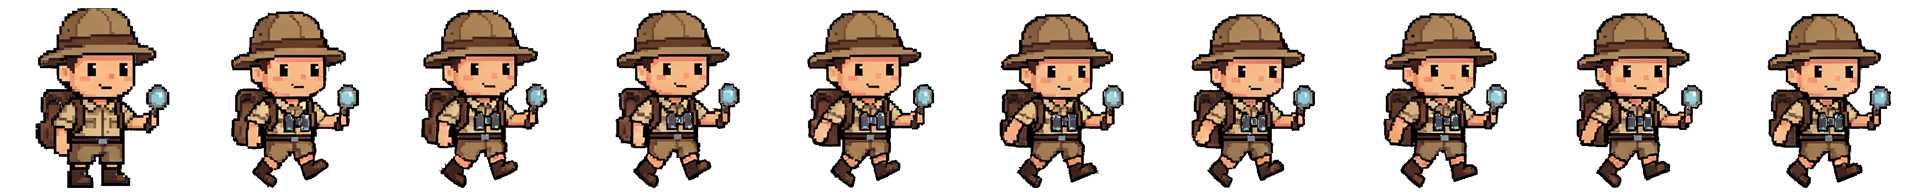
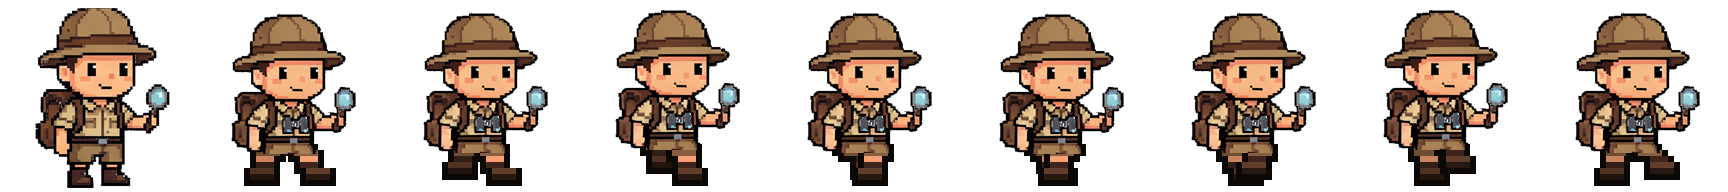
Gezgin: yürüme animasyonu prosedürel bacaklarla yeniden yapıldı
- Kaynak karelerde bacaklar neredeyse aynı pozdaydı. tools/build-explorer-walk.py
  tek gövde karesinin altına her karede yeni bacak çizer: basan ayak geriye kayar,
  salınan ayak dizden bükülüp kalkarak öne gelir, adım anında gövde hafifçe çöker.
- Şerit 1 duruş + 8 yürüyüş karesi (8 fps ile 1 sn'lik döngü).
- Girdiler Assets/explorer/src/explorer_idle.png ve explorer_body.png olarak saklandı.

Claude-Session: https://claude.ai/code/session_01DosPANLGgFpHDMt3x6X6kz

diff --git a/tools/build-explorer-walk.py b/tools/build-explorer-walk.py
@@ -1,0 +1,146 @@
+# Gezginin yürüme şeridini üretir: bacaklar prosedürel bir yürüyüş döngüsüyle piksel piksel çizilir.
+#
+# Kaynak görsellerdeki yürüyüş karelerinde bacaklar neredeyse aynı pozdaydı; adım belli olmuyordu.
+# Bu araç tek bir gövde karesini (kalçadan yukarısı) alır, altına her karede yeni bacaklar çizer:
+# basan ayak geriye kayar, salınan ayak dizden bükülüp yerden kalkarak öne gelir, gövde adım
+# anında hafifçe çöker. Bacak çizimi kaynaktaki piksel boyuna (≈6 px) oturan bir ızgarada yapılır.
+#
+# Girdi:  Assets/explorer/src/explorer_idle.png  (192x192 duruş karesi)
+#         Assets/explorer/src/explorer_body.png  (192x192 yürüyüş karesi; kalçadan yukarısı kullanılır)
+# Çıktı:  Assets/explorer/explorer_walk.png      (kare 0 duruş, 1..N yürüyüş)
+# Çalıştır: python tools/build-explorer-walk.py [önizleme.png]   (Pillow gerekir)
+import math
+import sys
+from pathlib import Path
+
+from PIL import Image
+
+ROOT = Path(__file__).resolve().parent.parent / "Assets" / "explorer"
+CELL = 192          # şerit kare boyu
+PX = 6              # bir "sanat pikseli" (kaynaktaki piksel bloğu ≈ 6.4 px)
+FRAMES = 8          # yürüyüş karesi sayısı (8 fps ile bir döngü 1 sn)
+CUT_Y = 150         # gövde karesinde bacakların başladığı satır (şort paçasının üstü)
+GROUND = 186        # ayak tabanının alt satırı
+HIPS = (82, 108)    # sol (arka) ve sağ (ön) bacağın kalça merkezi, x
+STRIDE = 3.2        # ayağın kalçaya göre en fazla ileri/geri kayması (sanat pikseli)
+LIFT = 1.8          # salınan ayağın en fazla yerden kalkışı (sanat pikseli)
+BOB = 4             # adım anında gövdenin çökmesi (px)
+
+OUTLINE = (12, 8, 6)
+SHORTS = (167, 129, 84)
+SHORTS_DARK = (135, 94, 64)
+SKIN = (248, 160, 116)
+SKIN_DARK = (214, 128, 92)
+BOOT = (97, 61, 44)
+BOOT_DARK = (62, 36, 28)
+SOLE = (40, 24, 18)
+
+LEG_ROWS = (GROUND - CUT_Y) // PX   # ayakta dururken bacak kaç sanat pikseli boyunda (6)
+
+
+def shade(c, k):
+    return tuple(max(0, min(255, round(v * k))) for v in c)
+
+
+def leg_cells(foot_x, lift, bend):
+    """Bir bacağın sanat pikseli ızgarasındaki hücreleri: {(x, y): renk}. Kalça (0, 0)'da, y aşağı doğru.
+
+    foot_x: ayağın kalçaya göre yatay konumu; lift: yerden kalkış; bend: dizin öne çıkışı.
+    Her satırın merkezi kalça → diz → bilek çizgisi üzerinden bulunur; satırlar o merkeze
+    göre boyanır (üstte şort paçası, sonra diz/bacak teni, en altta öne bakan bot)."""
+    bottom = LEG_ROWS - lift              # tabanın satırı (kesirli)
+    rows = max(4, round(bottom))
+    knee_y = rows * 0.45
+    knee_x = foot_x * 0.5 + bend
+
+    def center(y):
+        if y <= knee_y:
+            return knee_x * (y / knee_y)
+        t = (y - knee_y) / max(0.001, rows - knee_y)
+        return knee_x + (foot_x - knee_x) * t
+
+    cells = {}
+    for r in range(rows):
+        cx = center(r + 0.5)
+        from_bottom = rows - 1 - r
+        if from_bottom <= 2:                     # bot: 3 satır, alttaki iki satırda burun öne uzar
+            left, right = -1.5, 1.5 + (1 if from_bottom <= 1 else 0)
+            color = SOLE if from_bottom == 0 else (BOOT_DARK if from_bottom == 2 else BOOT)
+        elif r <= 1:                             # şort paçası
+            left, right = -2, 2
+            color = SHORTS if r == 0 else SHORTS_DARK
+        else:                                    # diz / bacak
+            left, right = -1.5, 1.5
+            color = SKIN
+        for x in range(math.floor(cx + left + 0.5), math.floor(cx + right + 0.5)):
+            cells[(x, r)] = color
+    # 1 sanat piksellik koyu kontur (üst kenar hariç: gövdenin altına girer).
+    outline = {}
+    for (x, y) in cells:
+        for dx, dy in ((1, 0), (-1, 0), (0, 1), (1, 1), (-1, 1)):
+            n = (x + dx, y + dy)
+            if n not in cells and n[1] >= 0:
+                outline[n] = OUTLINE
+    return {**outline, **cells}
+
+
+def foot(phase):
+    """Döngü evresine (0..1) göre ayağın (x, kalkış, diz bükümü)."""
+    if phase < 0.5:                       # basma: ayak yerde, önden arkaya kayar
+        t = phase / 0.5
+        return STRIDE * (1 - 2 * t), 0.0, 0.0
+    t = (phase - 0.5) / 0.5               # salınım: kalkar, öne gelir, iner
+    e = 0.5 - 0.5 * math.cos(math.pi * t)
+    lift = LIFT * math.sin(math.pi * t)
+    return STRIDE * (2 * e - 1), lift, 1.2 * math.sin(math.pi * t)
+
+
+def draw_leg(img, hip_x, top_y, phase, dim):
+    fx, lift, bend = foot(phase)
+    for (x, y), c in leg_cells(fx, lift, bend).items():
+        if dim and c != OUTLINE:
+            c = shade(c, 0.82)
+        x0 = hip_x + x * PX
+        y0 = top_y + y * PX
+        for yy in range(y0, y0 + PX):
+            for xx in range(x0, x0 + PX):
+                if 0 <= xx < CELL and 0 <= yy < CELL:
+                    img.putpixel((xx, yy), (*c, 255))
+
+
+def walk_frame(body, i):
+    phase = i / FRAMES
+    # Ayaklar en açıkken (basma anı) gövde çöker, ayaklar yan yana geçerken kalkar.
+    spread = abs(math.cos(2 * math.pi * phase))
+    bob = round(BOB * spread)
+    img = Image.new("RGBA", (CELL, CELL))
+    top = CUT_Y - PX                      # bacak bir satır yukarıdan başlar; gövde bu satırı örter
+    # Arka bacak (sol) önce ve hafif koyu; ön bacak (sağ) üstte.
+    draw_leg(img, HIPS[0], top, (phase + 0.5) % 1, dim=True)
+    draw_leg(img, HIPS[1], top, phase, dim=False)
+    upper = body.crop((0, 0, CELL, CUT_Y))
+    img.alpha_composite(upper, (0, bob))
+    return img
+
+
+def main():
+    idle = Image.open(ROOT / "src" / "explorer_idle.png").convert("RGBA")
+    body = Image.open(ROOT / "src" / "explorer_body.png").convert("RGBA")
+    strip = Image.new("RGBA", (CELL * (FRAMES + 1), CELL))
+    strip.alpha_composite(idle, (0, 0))
+    for i in range(FRAMES):
+        strip.alpha_composite(walk_frame(body, i), (CELL * (i + 1), 0))
+    strip.save(ROOT / "explorer_walk.png")
+    print(f"explorer: {FRAMES + 1} kare (1 duruş + {FRAMES} yürüyüş), {strip.width}x{strip.height}")
+
+    if len(sys.argv) > 1:
+        prev = Image.new("RGBA", (strip.width, strip.height * 2), (18, 22, 40, 255))
+        light = Image.new("RGBA", strip.size, (235, 235, 240, 255))
+        prev.paste(light, (0, strip.height))
+        prev.alpha_composite(strip, (0, 0))
+        prev.alpha_composite(strip, (0, strip.height))
+        prev.save(sys.argv[1])
+
+
+if __name__ == "__main__":
+    main()

diff --git a/MainWindow.Explorer.cs b/MainWindow.Explorer.cs
@@ -4,7 +4,7 @@ using System.Windows.Media.Imaging;
 namespace FlowState;
 
 // Odak çemberindeki gezgin: oturum çalışırken yerinde yürür, duraklatılınca ya da oturum yokken durur.
-// Kareler Assets/explorer/explorer_walk.png içinde (tools/build-explorer.ps1 üretir): kare 0 duruş, 1.. yürüyüş.
+// Kareler Assets/explorer/explorer_walk.png içinde (tools/build-explorer-walk.py üretir): kare 0 duruş, 1.. yürüyüş.
 public partial class MainWindow
 {
     const int ExplorerCell = 192;

diff --git a/YAPILACAKLAR.md b/YAPILACAKLAR.md
@@ -2,7 +2,7 @@
 
 Hayvanat bahçesi (`feature/zoo`) için sıradaki işler:
 
-1. **Gezginin yürüme animasyonunu düzelt.** Şu anki karelerde bacaklar neredeyse aynı pozda, adımlama belli olmuyor.
+1. ~~**Gezginin yürüme animasyonunu düzelt.**~~ ✅ Bacaklar `tools/build-explorer-walk.py` ile prosedürel çiziliyor (8 karelik döngü, ayak kalkışı, diz bükümü, gövde zıplaması).
 2. **Hayvanların yürüme animasyonlarını düzelt.** Zebra, zürafa ve filin gerçek yürüyüş sayfası yok (iki poz + zıplama ile idare ediyor).
 3. **Bahçe arka planını değiştir.**
 4. **Uygulamanın tasarımını komple değiştir.**
